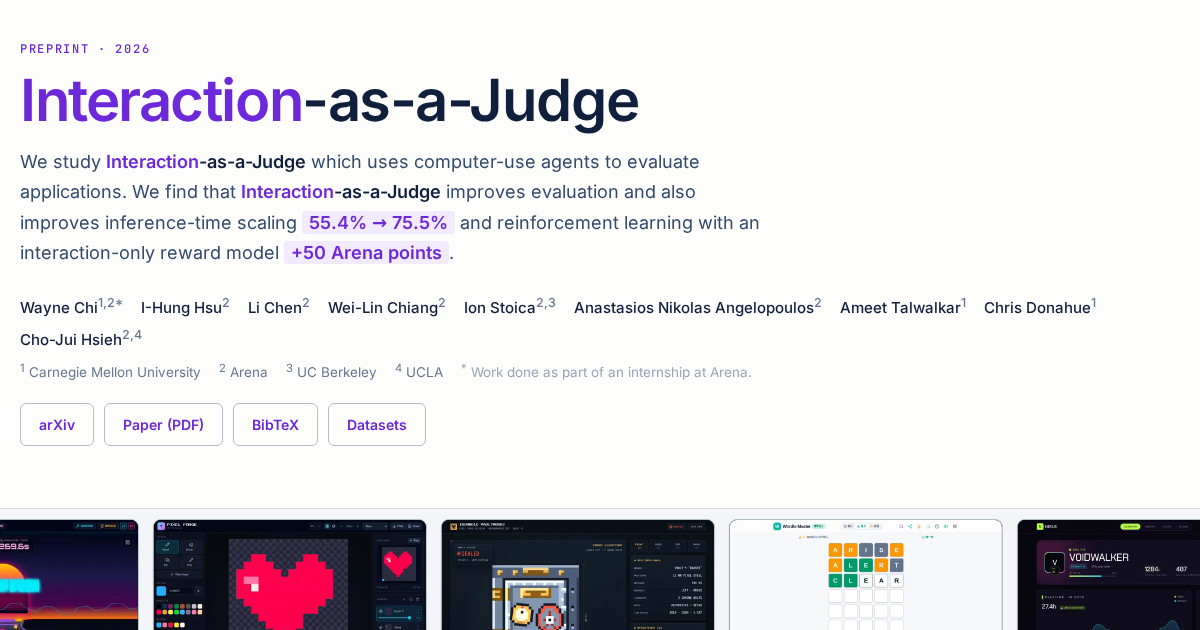
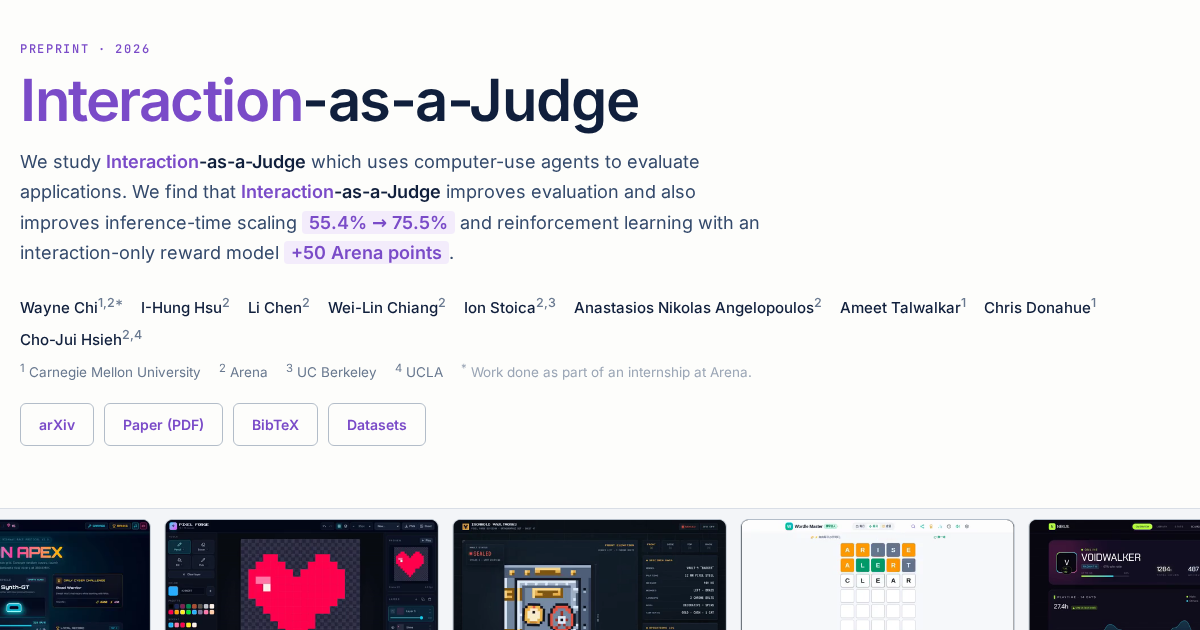
Return brand purple to the softer #7a4bc8

diff --git a/index.html b/index.html
@@ -16,7 +16,7 @@
     />
     <meta
       property="og:image"
-      content="https://interaction-judge.github.io/assets/social-preview.png?v=2"
+      content="https://interaction-judge.github.io/assets/social-preview.png?v=3"
     />
     <meta property="og:image:width" content="1200" />
     <meta property="og:image:height" content="630" />
@@ -33,7 +33,7 @@
       href="https://fonts.googleapis.com/css2?family=Inter:wght@400;500;600&family=JetBrains+Mono:wght@400;500&family=Newsreader:opsz,wght@6..72,400;6..72,500&display=swap"
       rel="stylesheet"
     />
-    <link rel="stylesheet" href="style.css?v=23" />
+    <link rel="stylesheet" href="style.css?v=24" />
   </head>
   <body>
     <header class="paper-header">

diff --git a/style.css b/style.css
@@ -28,8 +28,8 @@
 
   /* Brand purple — matches the Interaction-as-a-Judge series color */
   --brand:      #af82de;
-  --brand-deep: #6d28d9;
-  --brand-soft: #f2eafd;
+  --brand-deep: #7a4bc8;
+  --brand-soft: #f3ecfb;
 
   /* Status */
   --ok-fill:   #e7f4ea;
